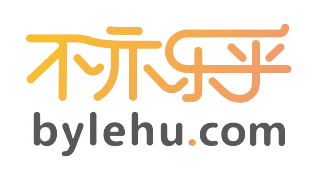
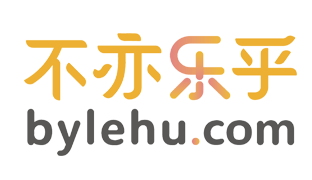
修改首页部分样式，更换部分图片

Changed region(s): [[0.0577, 0.1111, 0.9519, 0.5833], [0.0865, 0.5833, 0.9519, 0.8889]]

diff --git a/public/basic/css/demo.css b/public/basic/css/demo.css
@@ -119,7 +119,7 @@ input.add,input.min{width:15px}
     height: 32px;
     border: none;
     float: right;
-    background: #F03726 none repeat scroll 0% 0%;
+    background: #ea6005 none repeat scroll 0% 0%;
     color: #F5F5F2;
     font-size: 14px;
     cursor: pointer;
@@ -312,7 +312,7 @@ input.add,input.min{width:15px}
 
     .search-bar {
         height: 90px;
-        padding: 20px 70px 0 230px;
+        padding: 20px 70px 0 350px;
         margin: auto;
     }
 
@@ -364,7 +364,7 @@ input.add,input.min{width:15px}
     }
 
     .long-title {
-        background: #d2364c;
+        background: #ea6005;
         color: #fff;
         height: 45px;
         line-height: 45px;
@@ -379,7 +379,8 @@ input.add,input.min{width:15px}
 
     .nav-cont {
         position: absolute;
-        padding-left: 150px;
+        /*padding-left: 150px;*/
+        padding-left: 0px;
         display: block;
         width: 100%;
         top: 0px
@@ -485,7 +486,8 @@ input.add,input.min{width:15px}
     }
 
     .nav-cont {
-        padding-left: 180px;
+        /*padding-left: 180px;*/
+        padding-left: 0px;
     }
 
 }

diff --git a/public/css/personal.css b/public/css/personal.css
@@ -301,7 +301,7 @@ li.person p i{position: absolute;left:0px;font-size: 15px;color:#fd6d37 ;width: 
 /*分类*/
 .nav-table{max-width:1000px;margin: 0px auto;height: 45px;position: relative;overflow: hidden;display: block;margin-top:10px ;}
 .nav-table .all-goods{font-size: 16px;}
-.long-title{background:#f03726;color:#fff ;height: 45px;line-height: 45px;display:block;position: absolute;width:150px ;text-align: center;font-size:16px ;top:0px;z-index: 6;}
+.long-title{background:#ea6005;color:#fff ;height: 45px;line-height: 45px;display:block;position: absolute;width:150px ;text-align: center;font-size:16px ;top:0px;z-index: 6;}
 .nav-cont{position: absolute;padding-left:150px;display:block;width:100% ;top:0px}
 .nav-cont li{float: left;height: 45px;line-height: 45px;}
 .nav-cont li::before{content: '\20';display: inline-block;height: 16px;border-right: 1px solid #d9d9d9;width: 0;vertical-align: middle;margin-left: -1px;}

diff --git a/resources/views/index.blade.php b/resources/views/index.blade.php
@@ -69,6 +69,10 @@
             padding: 3px;
             line-height: 1.5;
         }
+        .category-content .category-list li{
+            border-top: 0px;
+            border-bottom: 0px;
+        }
 
         .comcategory li a:hover {
             color: #b84554;
@@ -80,11 +84,11 @@
         }
 
         .category-info {
-            border-left: 2px solid #d2364c;
-            border-right: 2px solid #d2364c;
+            border-left: 2px solid #ea6005;
+            border-right: 2px solid #ea6005;
             background: #fff;
-            border-top: 1px solid #d2364c;
-            border-bottom: 1px solid #d2364c;
+            /*border-top: 1px solid #d2364c;*/
+            /*border-bottom: 1px solid #d2364c;*/
         }
         .title-first a {
             text-align: center;
@@ -177,6 +181,9 @@
             margin-top: 5rem;
             font-size: large;
         }
+        .bgcolor{
+            background: #ea6005;
+        }
 
         .card-title {
             font-size: 1.2rem;
@@ -248,7 +255,7 @@
                 <ul class="">
                     <li class="">
                         <a href="#">
-                            <img src="{{asset('images/3.jpg')}}"
+                            <img src="{{asset('images/3.png')}}"
                                  style="width: 850px;margin-left:-200px;height: 417px;"/>
                         </a>
                     </li>
@@ -259,7 +266,7 @@
         <div class="am-u-lg-3" style="margin-left: -180px;">
             <div class="marqueenTwo" style="background:transparent;border:0px;">
                 <div class="demo" style="margin-left: 10rem;">
-                    <button type="button" class="am-btn am-btn-warning am-round demo_btn" onclick="window.location.href='/demands/demandPublishIndex'">发布需求</button>
+                    <button type="button" class="am-btn am-btn-warning am-round demo_btn bgcolor" onclick="window.location.href='/demands/demandPublishIndex'">发布需求</button>
                     <button type="button" class="am-btn am-btn-primary am-round demo_btn" onclick="window.location.href='/service/genlpublish'">发布服务</button>
                 </div>
             </div>

diff --git a/resources/views/demo/admin.blade.php b/resources/views/demo/admin.blade.php
@@ -15,13 +15,23 @@
          background-color: #03A9F4;
      }
 
+     /*.nav_img_release {*/
+         /*float: right;*/
+         /*width: 7rem;*/
+         /*margin-top: -6rem;*/
+         /*margin-right: -5rem;*/
+         /*!*margin-left: 50rem;*!*/
+     /*}*/
      .nav_img_release {
-         float: right;
-         width: 7rem;
-         margin-top: -6rem;
-         margin-right: -5rem;
-         /*margin-left: 50rem;*/
+         float: left;
+         width: 12rem;
+         margin-top: -5rem;
+         /*margin-right: -5rem;*/
+         margin-left: 11rem;
      }
+        .line{
+            border-bottom: 2px solid #ea6005 !important;
+        }
     </style>
     @section("custom-style")
     @show
@@ -74,7 +84,7 @@
                 <input id="ai-topsearch" class="submit am-btn" value="搜索" index="1" type="button">
             </form>
         </div>
-        <img class="nav_img_release" src="{{asset('images/bylh01.jpg')}}"/>
+        <img class="nav_img_release" src="{{asset('images/logo1.png ')}}"/>
         {{--<div class="logoBig" style="margin-top: -15px;margin-left: -50px;">--}}
         {{--<li><img src="{{asset('images/bylh01.jpg')}}"/></li>--}}
         {{--</div>--}}
@@ -87,9 +97,10 @@
 <div class="shopNav">
     <div class="slideall" style="height: auto;">
 
-        <div class="long-title"><span class="all-goods">全部分类</span></div>
+        <div class="long-title"><span class="all-goods">服务范围</span></div>
 
-        <div class="nav-cont" style="background: #ff9933bd;">
+        <div class="nav-cont" style="
+        /*background: #ff9933bd;*/">
             <ul>
                 <li class="index @if($title==1) nav_active @endif"><a href="{{asset('index')}}">首页</a></li>
                 <li class="qc @if($title==2) nav_active @endif"><a href="{{asset('demands/advanceSearch')}}">需求大厅</a></li>

diff --git a/resources/views/demo/admin3.blade.php b/resources/views/demo/admin3.blade.php
@@ -86,10 +86,11 @@
     <div class="slideall" style="height: auto;">
 
         <div class="long-title" style="margin-top: 135px;margin-left: 120px;">
-            <span class="all-goods">全部分类</span>
+            <span class="all-goods">服务范围</span>
         </div>
 
-        <div class="nav-cont" style="margin-top:135px;max-width: 1250px;margin-left: 120px;background: #ff9933bd;">
+        <div class="nav-cont" style="margin-top:135px;max-width: 1250px;margin-left: 120px;
+        /*background: #ff9933bd;*/">
             <ul>
                 <li class="index @if($title==1) nav_active @endif"><a href="{{asset('index')}}">首页</a></li>
                 <li class="qc @if($title==2) nav_active @endif"><a href="{{asset('demands/advanceSearch')}}">需求大厅</a>

diff --git a/resources/views/demo/admin2.blade.php b/resources/views/demo/admin2.blade.php
@@ -84,8 +84,9 @@
     </article>
 </header>
 <div class="nav-table">
-    <div class="long-title"><span class="all-goods">全部分类</span></div>
-    <div class="nav-cont" style="background: #ff9933bd;">
+    <div class="long-title"><span class="all-goods">服务范围</span></div>
+    <div class="nav-cont" style="
+    /*background: #ff9933bd;*/">
         <ul>
             <li class="index"><a href="{{asset('index')}}">首页</a></li>
             <li class="qc"><a href="{{asset('demands/advanceSearch')}}">需求大厅</a></li>
